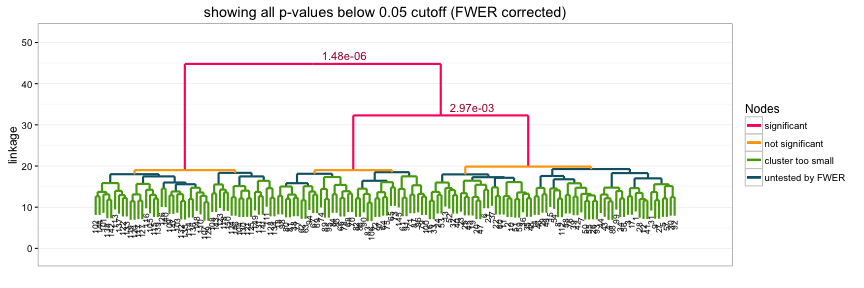
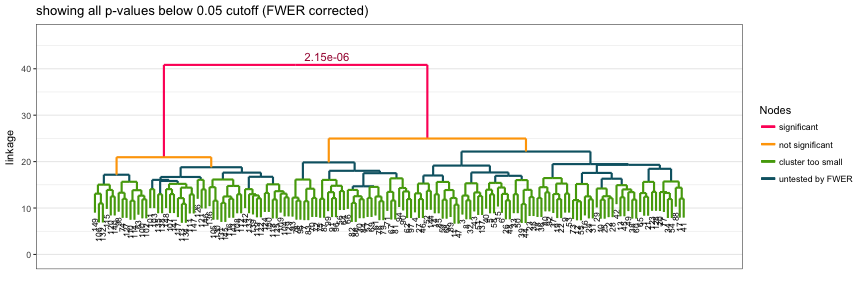
Update manuscript ref in docs; use seed in README

diff --git a/README.md b/README.md
@@ -45,6 +45,7 @@ For the following examples, we will use a simple toy example with 150 samples (_
 
 
 ```r
+set.seed(1508)
 n1 <- 60; n2 <- 40; n3 <- 50; n <- n1 + n2 + n3
 p <- 100
 data <- matrix(rnorm(n*p), nrow=n, ncol=p)
@@ -75,7 +76,7 @@ three arguments:
 * `metric`: the dissimilarity metric, and  
 * `linkage`: the linkage function to be used for hierarchical clustering.  
 
-For reasons outlined in the corresponding paper [(Kimes et al. 2014)](#refs) relating to how
+For reasons outlined in the corresponding paper [(Kimes et al. 2017)](#refs) relating to how
 the method handles testing when n << p, we recommmend using `"euclidean"` as the metric,
 and any of `"ward.D2"`, `"single"`, `"average"`, `"complete"` as the linkage. If a custom
 dissimilarity metric is desired, either of `vecmet` or `matmet` should be specified, as
@@ -161,10 +162,10 @@ data.frame(result = head(shc_result$nd_type, 5),
 ```
 ##           result hclust_2CI hclust_2CI.1
 ## 1 cutoff_skipped    0.00000         0.00
-## 2 cutoff_skipped    0.00297         0.01
-## 3 cutoff_skipped    0.99976         1.00
-## 4 cutoff_skipped    0.97150         0.99
-## 5 cutoff_skipped    0.99553         1.00
+## 2 cutoff_skipped    0.41475         0.37
+## 3 cutoff_skipped    0.88019         0.90
+## 4 cutoff_skipped    0.84834         0.85
+## 5 cutoff_skipped    0.86693         0.88
 ```
 
 In addition to values between 0 and 1, some p-values are reported as `2`. These values correspond
@@ -210,7 +211,7 @@ system.time(mfun1(data))
 
 ```
 ##    user  system elapsed 
-##   0.598   0.006   0.605
+##   0.669   0.003   0.678
 ```
 
 ```r
@@ -245,12 +246,12 @@ data.frame(result = head(shc_mfun2$nd_type),
 
 ```
 ##           result hclust_2CI hclust_2CI.1
-## 1 cutoff_skipped    0.49577         0.53
-## 2 cutoff_skipped    0.96266         0.96
-## 3 cutoff_skipped    0.00579         0.02
-## 4 cutoff_skipped    0.99790         0.99
-## 5 cutoff_skipped    0.56331         0.58
-## 6 cutoff_skipped    0.80399         0.85
+## 1 cutoff_skipped    0.99845         1.00
+## 2 cutoff_skipped    0.63709         0.69
+## 3 cutoff_skipped    0.24079         0.24
+## 4 cutoff_skipped    0.94164         0.94
+## 5 cutoff_skipped    0.94411         0.96
+## 6 cutoff_skipped    0.99639         1.00
 ```
 
 Since the toy dataset is simulated with all differentiating signal lying in the
@@ -298,11 +299,11 @@ data.frame(result = head(shc_fwer$nd_type, 10),
 ```
 ##     result hclust_2CI hclust_2CI.1
 ## 1      sig    0.00000         0.00
-## 2      sig    0.00116         0.01
-## 3  not_sig    0.99648         1.00
-## 4  no_test    2.00000         2.00
-## 5  not_sig    0.99899         1.00
-## 6  not_sig    0.99444         1.00
+## 2  not_sig    0.36017         0.27
+## 3  no_test    2.00000         2.00
+## 4  not_sig    0.86606         0.88
+## 5  no_test    2.00000         2.00
+## 6  no_test    2.00000         2.00
 ## 7  no_test    2.00000         2.00
 ## 8  no_test    2.00000         2.00
 ## 9  no_test    2.00000         2.00
@@ -330,12 +331,12 @@ round(head(data_2tests$p_norm), 5)
 
 ```
 ##      hclust_2CI hclust_linkage
-## [1,]    0.00001        0.00040
-## [2,]    0.00111        0.03517
-## [3,]    0.99495        1.00000
-## [4,]    0.96745        1.00000
-## [5,]    0.99703        1.00000
-## [6,]    0.98891        1.00000
+## [1,]    0.00001        0.00152
+## [2,]    0.42544        0.97613
+## [3,]    0.83015        0.99999
+## [4,]    0.86116        1.00000
+## [5,]    0.81640        1.00000
+## [6,]    0.98948        1.00000
 ```
 
 The results of clustering using `hclust_2CI` and `hclust_linkage` are reported in the columns
@@ -441,9 +442,12 @@ sessionInfo()
 ```
 
 ```
-## R version 3.3.1 (2016-06-21)
-## Platform: x86_64-apple-darwin15.5.0 (64-bit)
-## Running under: OS X 10.11.6 (El Capitan)
+## R version 3.4.2 (2017-09-28)
+## Platform: x86_64-apple-darwin15.6.0 (64-bit)
+## Running under: OS X El Capitan 10.11.6
+## 
+## Matrix products: default
+## BLAS/LAPACK: /usr/local/Cellar/openblas/0.2.20/lib/libopenblasp-r0.2.20.dylib
 ## 
 ## locale:
 ## [1] en_US.UTF-8/en_US.UTF-8/en_US.UTF-8/C/en_US.UTF-8/en_US.UTF-8
@@ -452,30 +456,38 @@ sessionInfo()
 ## [1] stats     graphics  grDevices utils     datasets  methods   base     
 ## 
 ## other attached packages:
-## [1] sigclust2_1.1.2 Rcpp_0.12.7     GGally_1.2.0    ggplot2_2.1.0  
+## [1] bindrcpp_0.2    sigclust2_1.2.1 Rcpp_0.12.16    GGally_1.3.2   
+## [5] ggplot2_2.2.1  
 ## 
 ## loaded via a namespace (and not attached):
-##  [1] lattice_0.20-34       GO.db_3.3.0           assertthat_0.1       
-##  [4] digest_0.6.10         foreach_1.4.3         R6_2.2.0             
-##  [7] plyr_1.8.4            chron_2.3-47          acepack_1.4.1        
-## [10] dynamicTreeCut_1.63-1 stats4_3.3.1          RSQLite_1.0.0        
-## [13] evaluate_0.10         lazyeval_0.2.0        Rclusterpp_0.2.3     
-## [16] data.table_1.9.6      S4Vectors_0.10.3      rpart_4.1-10         
-## [19] Matrix_1.2-7.1        preprocessCore_1.34.0 labeling_0.3         
-## [22] devtools_1.12.0       splines_3.3.1         stringr_1.1.0        
-## [25] foreign_0.8-67        munsell_0.4.3         BiocGenerics_0.18.0  
-## [28] htmltools_0.3.5       nnet_7.3-12           tibble_1.2           
-## [31] gridExtra_2.2.1       htmlTable_1.7         roxygen2_5.0.1       
-## [34] Hmisc_4.0-0           IRanges_2.6.1         codetools_0.2-15     
-## [37] matrixStats_0.51.0    reshape_0.8.6         crayon_1.3.2         
-## [40] dplyr_0.5.0           withr_1.0.2           MASS_7.3-45          
-## [43] grid_3.3.1            gtable_0.2.0          DBI_0.5-1            
-## [46] magrittr_1.5          formatR_1.4           scales_0.4.0         
-## [49] stringi_1.1.2         impute_1.46.0         ggthemes_3.2.0       
-## [52] doParallel_1.0.10     testthat_1.0.2        latticeExtra_0.6-28  
-## [55] fastcluster_1.1.21    ggdendro_0.1-20       Formula_1.2-1        
-## [58] WGCNA_1.51            RColorBrewer_1.1-2    iterators_1.0.8      
-## [61] tools_3.3.1           Biobase_2.32.0        parallel_3.3.1       
-## [64] survival_2.40-1       AnnotationDbi_1.36.0  colorspace_1.2-7     
-## [67] cluster_2.0.5         memoise_1.0.0         knitr_1.14
+##  [1] ggdendro_0.1-20       Biobase_2.38.0        dynamicTreeCut_1.63-1
+##  [4] bit64_0.9-7           splines_3.4.2         foreach_1.4.4        
+##  [7] assertthat_0.2.0      Formula_1.2-2         highr_0.6            
+## [10] stats4_3.4.2          latticeExtra_0.6-28   blob_1.1.0           
+## [13] fit.models_0.5-14     robustbase_0.92-8     impute_1.52.0        
+## [16] Rclusterpp_0.2.3      pillar_1.1.0          RSQLite_2.0          
+## [19] backports_1.1.2       lattice_0.20-35       glue_1.2.0           
+## [22] digest_0.6.14         RColorBrewer_1.1-2    checkmate_1.8.5      
+## [25] colorspace_1.3-2      htmltools_0.3.6       preprocessCore_1.40.0
+## [28] Matrix_1.2-12         plyr_1.8.4            pcaPP_1.9-73         
+## [31] pkgconfig_2.0.1       devtools_1.13.4       mvtnorm_1.0-6        
+## [34] GO.db_3.5.0           scales_0.5.0          htmlTable_1.11.2     
+## [37] tibble_1.4.2          IRanges_2.12.0        withr_2.1.1          
+## [40] fastcluster_1.1.24    nnet_7.3-12           BiocGenerics_0.24.0  
+## [43] lazyeval_0.2.1        survival_2.41-3       magrittr_1.5         
+## [46] memoise_1.1.0         evaluate_0.10.1       doParallel_1.0.11    
+## [49] MASS_7.3-47           xml2_1.1.1            foreign_0.8-69       
+## [52] ggthemes_3.4.0        tools_3.4.2           data.table_1.10.4-3  
+## [55] matrixStats_0.52.2    stringr_1.3.0         S4Vectors_0.16.0     
+## [58] munsell_0.4.3         cluster_2.0.6         AnnotationDbi_1.40.0 
+## [61] compiler_3.4.2        rlang_0.2.0.9001      grid_3.4.2           
+## [64] iterators_1.0.9       rstudioapi_0.7        htmlwidgets_1.0      
+## [67] WGCNA_1.61            robust_0.4-18         labeling_0.3         
+## [70] base64enc_0.1-3       testthat_2.0.0        gtable_0.2.0         
+## [73] codetools_0.2-15      DBI_0.7               reshape_0.8.7        
+## [76] roxygen2_6.0.1        rrcov_1.4-3           R6_2.2.2             
+## [79] gridExtra_2.3         dplyr_0.7.4           knitr_1.18           
+## [82] bit_1.1-12            bindr_0.1             commonmark_1.4       
+## [85] Hmisc_4.0-3           stringi_1.1.7         parallel_3.4.2       
+## [88] rpart_4.1-11          acepack_1.4.1         DEoptimR_1.0-8
 ```
